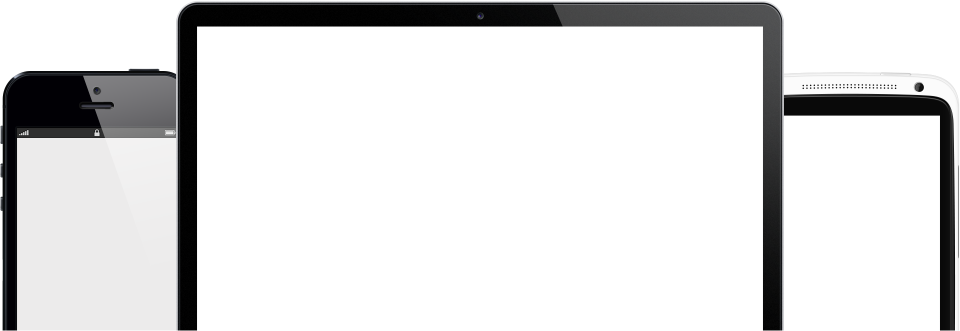
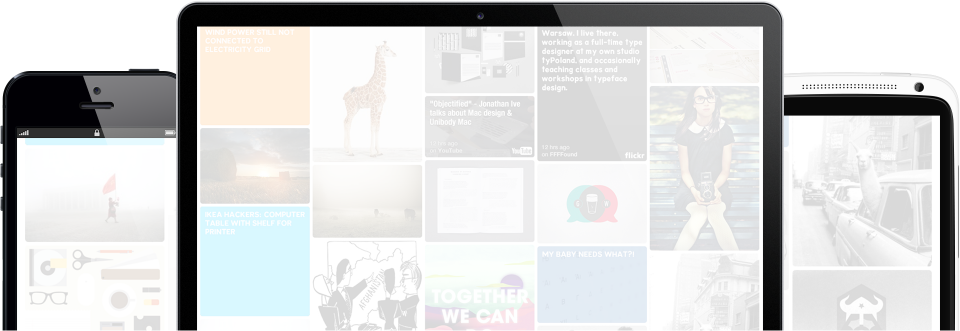
bump down framerate & fix issue where windows wasn't responding to keystrokes & mouse inputs

Changed region(s): [[0.1875, 0.0604, 0.9688, 0.997], [0.75, 0.7855, 0.7812, 0.8157]]

diff --git a/application/lib/front-plugins/app.http.client/public/app/plugins/init/index.js b/application/lib/front-plugins/app.http.client/public/app/plugins/init/index.js
@@ -91,7 +91,7 @@ exports.plugin = function(router, bark, states, mainPlugin, puppeteer, commands,
 		var q = Url.parse(String(window.location), true).query,
 
 		//low GOP initially so there's no delay when interacting with the page
-		defaults = { qmin: 1, qmax: 5, gop_size: 70, frame_rate: 70 };
+		defaults = { qmin: 1, qmax: 5, gop_size: 70, frame_rate: 40 };
 
 
 		for(var key in defaults) {

diff --git a/application/lib/front-plugins/app.http.client/public/app/plugins/app.part.main/views/flashPlayer.js b/application/lib/front-plugins/app.http.client/public/app/plugins/app.part.main/views/flashPlayer.js
@@ -29,7 +29,9 @@ module.exports = require("../../../views/base").extend({
 		"/swf/expressInstall.swf",
 		JSON.parse(JSON.stringify(this.params())), {
 			backgroundColor: "#FFFFFF"
-		}, {}, function() {
+		}, {
+			"wmode": "transparent"
+		}, function() {
 
 			//beat the race condition
 			setTimeout(function() {

diff --git a/application/lib/front-plugins/app.http.client/public/app/plugins/app.part.main/views/screen.js b/application/lib/front-plugins/app.http.client/public/app/plugins/app.part.main/views/screen.js
@@ -127,6 +127,8 @@ module.exports = require("../../../views/base").extend({
 	},
 	"onWindowKeyDown": function(e) {
 
+		console.log("KEY")
+
 
 		e.preventDefault();
 		e.stopPropagation();
